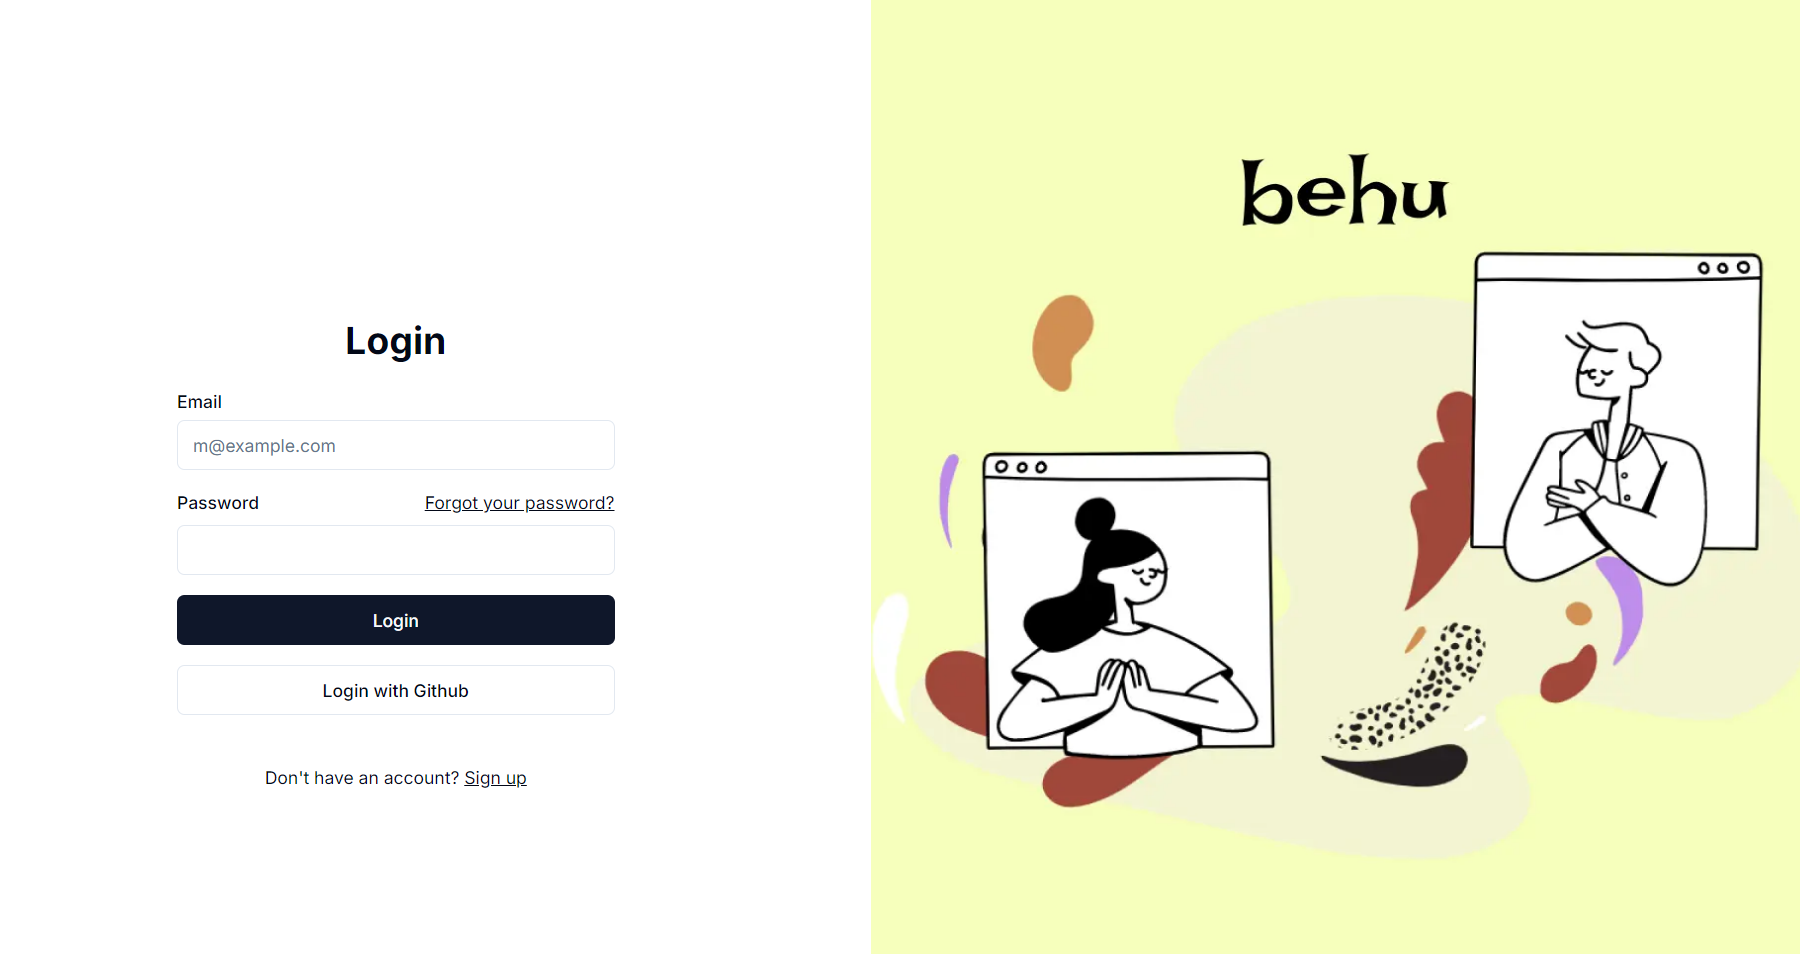
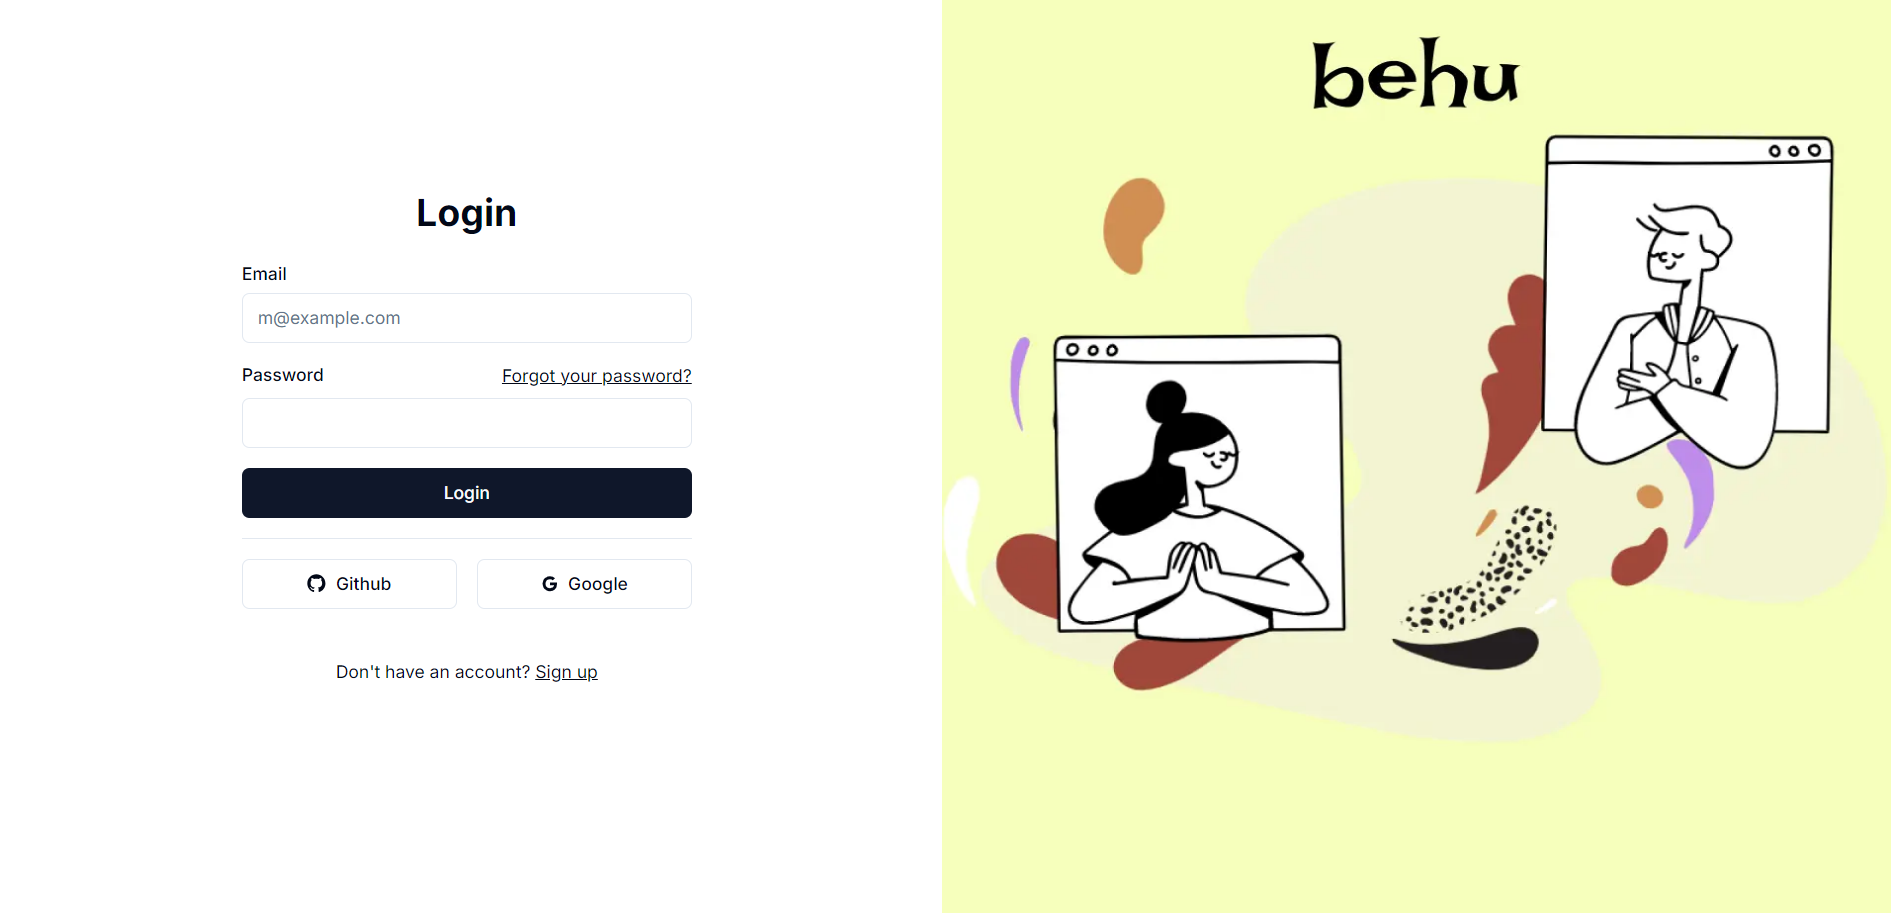
feat: Update Login page

diff --git a/components/Login.tsx b/components/Login.tsx
@@ -4,16 +4,17 @@ import Link from "next/link"
 import { Button } from "@/components/ui/button"
 import { Input } from "@/components/ui/input"
 import { Label } from "@/components/ui/label"
+import { Separator } from "@/components/ui/separator"
 import { GithubLoginButton } from "@/components/GithubLoginButtion"
 
 import behu from "@/public/behu.png"
 import { GoogleoginButton } from "./GoogleLoginButton"
 
-export function Dashboard() {
+export function Login() {
   return (
     <div className="w-full lg:grid lg:min-h-[600px] lg:grid-cols-2 xl:min-h-[800px]">
-      <div className="flex items-center justify-center py-12">
-        <div className="mx-auto grid w-[350px] gap-6">
+      <div className="flex items-center justify-center py-2">
+        <div className="mx-auto grid w-[360px] gap-6">
           <div className="grid gap-2 text-center">
             <h1 className="text-3xl font-bold">Login</h1>
           </div>
@@ -42,8 +43,11 @@ export function Dashboard() {
             <Button type="submit" className="w-full">
               Login
             </Button>
-            <GithubLoginButton />
-            <GoogleoginButton />
+            <Separator />
+            <div className="flex justify-between items-center space-x-4">
+              <GithubLoginButton />
+              <GoogleoginButton />
+            </div>
           </div>
           <div className="mt-4 text-center text-sm">
             Don&apos;t have an account?{" "}

diff --git a/components/GithubLoginButtion.tsx b/components/GithubLoginButtion.tsx
@@ -1,16 +1,21 @@
 'use client';
 
 import { Button } from "@/components/ui/button"
+import { GitHubLogoIcon } from "@radix-ui/react-icons"
 
 export function GithubLoginButton() {
     return (
         <Button
             onClick={() => {
-                window.location.href = "https://github.com/login/oauth/authorize?client_id=Ov23ctUw3Kr2Lfyl6E6S&scope=read:user%20user:email"}
+                window.location.href = "https://github.com/login/oauth/authorize?client_id=Ov23ctUw3Kr2Lfyl6E6S&scope=read:user%20user:email"
+            }
             }
             variant="outline"
             className="w-full">
-            Login with Github
+            <div className="flex items-center space-x-2">
+                <GitHubLogoIcon />
+                <p>Github</p>
+            </div>
         </Button>
     )
 }

diff --git a/components/ui/separator.tsx b/components/ui/separator.tsx
@@ -1,0 +1,31 @@
+"use client"
+
+import * as React from "react"
+import * as SeparatorPrimitive from "@radix-ui/react-separator"
+
+import { cn } from "@/lib/utils"
+
+const Separator = React.forwardRef<
+  React.ElementRef<typeof SeparatorPrimitive.Root>,
+  React.ComponentPropsWithoutRef<typeof SeparatorPrimitive.Root>
+>(
+  (
+    { className, orientation = "horizontal", decorative = true, ...props },
+    ref
+  ) => (
+    <SeparatorPrimitive.Root
+      ref={ref}
+      decorative={decorative}
+      orientation={orientation}
+      className={cn(
+        "shrink-0 bg-border",
+        orientation === "horizontal" ? "h-[1px] w-full" : "h-full w-[1px]",
+        className
+      )}
+      {...props}
+    />
+  )
+)
+Separator.displayName = SeparatorPrimitive.Root.displayName
+
+export { Separator }

diff --git a/components/GoogleLoginButton.tsx b/components/GoogleLoginButton.tsx
@@ -1,6 +1,8 @@
 'use client';
 
 import { Button } from "@/components/ui/button"
+import { GoogleOutlined } from "@ant-design/icons"
+
 
 export function GoogleoginButton() {
     const client_id = "688917827107-492dlsdpjrvf1qla4atam0ap873558ds.apps.googleusercontent.com"
@@ -19,7 +21,10 @@ export function GoogleoginButton() {
             }
             variant="outline"
             className="w-full">
-            Login with Google
+            <div className="flex items-center space-x-2">
+                <GoogleOutlined />
+                <p>Google</p>
+            </div>
         </Button>
     )
 }

diff --git a/app/auth/[slug]/callback/page.tsx b/app/auth/[slug]/callback/page.tsx
@@ -1,0 +1,17 @@
+import ky from 'ky'
+import { redirect, notFound } from 'next/navigation'
+export default async function Page({
+    searchParams,
+    params
+  }: {
+    searchParams: { [key: string]: string | string[] | undefined },
+    params : { slug: string } }
+  ) {
+
+    if (params.slug !== "github" && params.slug !== "google") {
+        notFound()
+    }
+
+    await ky.get(`http://localhost:8000/auth/${params.slug}?code=${searchParams.code}`, { cache: 'no-store' })
+    redirect("/userinfo")
+}

diff --git a/app/page.tsx b/app/page.tsx
@@ -1,9 +1,9 @@
-import { Dashboard } from "@/components/Dashboard";
+import { Login } from "@/components/Login";
 
 export default function Home() {
   return (
     <>
-      <Dashboard />
+      <Login />
     </>
   );
 }

diff --git a/app/layout.tsx b/app/layout.tsx
@@ -19,6 +19,7 @@ export default function RootLayout({
   children: React.ReactNode;
 }>) {
   return (
+    
     <html lang="en">
       <body className={cn(
         "min-h-screen bg-background font-sans antialiased",

diff --git a/README.md b/README.md
@@ -33,4 +33,4 @@ pnpm dev
 ### 1. home page
 ![login](./doc/login.png)
 ### 2. user  [temporary]
-![alt text](./doc/user.png)
+![user](./doc/user.png)
